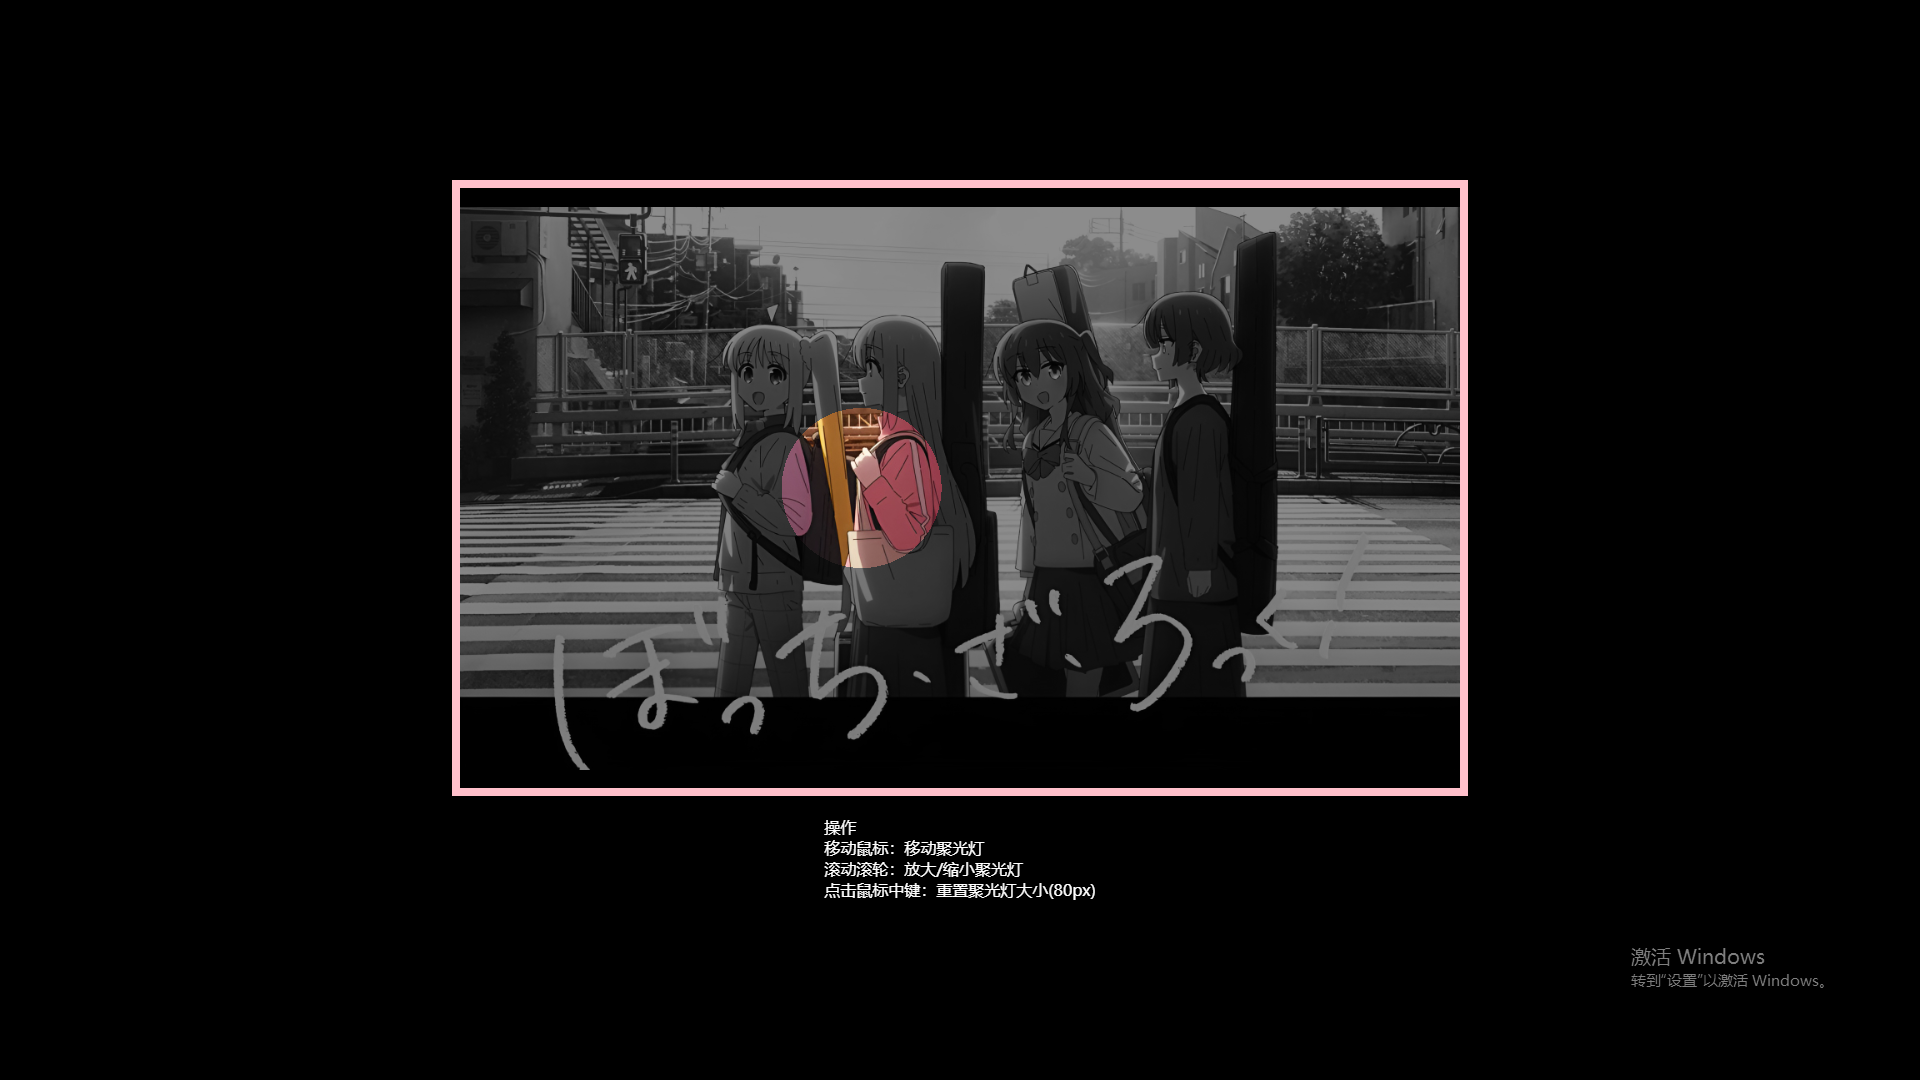
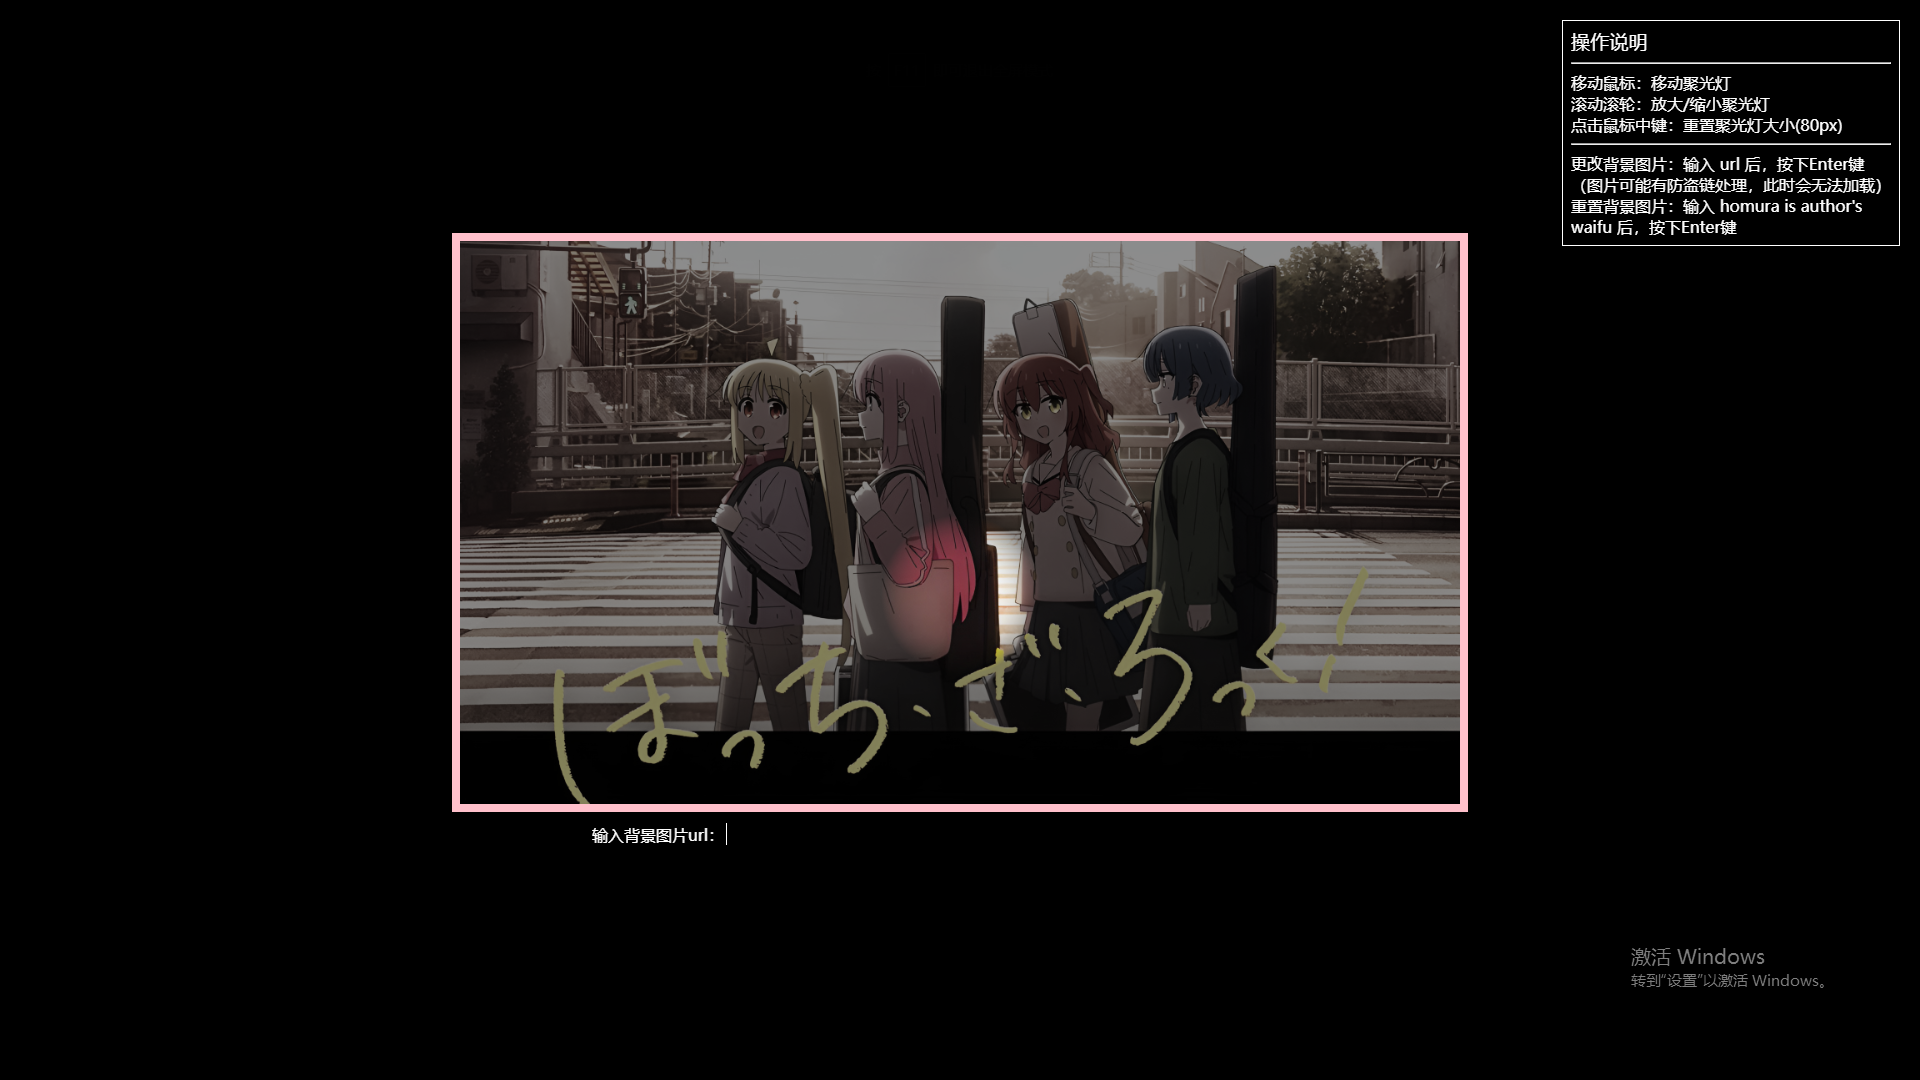
更新至0.7.3: 1.聚光灯增加自定义背景图片功能 2.修改聚光灯封面

Changed region(s): [[0.2188, 0.1528, 0.7812, 0.8556], [0.8125, 0.0306, 1.0, 0.2139]]

diff --git a/pages/spotlight.html b/pages/spotlight.html
@@ -16,18 +16,31 @@
           align-items: center;
       }
 
-      .description {
-          margin-top: 20px;
+      .manual {
+          position: fixed;
+          top: 20px;
+          right: 20px;
+
+          border: solid 1px;
+          padding: 8px;
+          width: 20em;
+      }
+
+      .manual > header {
+          font-size: 1.2em;
+      }
+
+      .manual .reset-cheats {
+
       }
 
       .scene {
-          --light-radius: 80px;
           --light-x: 50%;
           --light-y: 50%;
           border: solid 8px pink;
           width: 1000px;
-          height: 600px;
-          background: url("../images/material/wallhaven-85o6mj.jpg") center/contain no-repeat;
+          aspect-ratio: 16 / 9;
+          background: var(--bg-url) center/contain no-repeat;
       }
 
       .scene::after {
@@ -43,21 +56,44 @@
           -webkit-mask-size: 200% 200%;
           -webkit-mask-position: var(--mask-position-x) var(--mask-position-y);
       }
+
+      .bg-url-input {
+          margin-top: 10px;
+      }
+
+      .bg-url-input input {
+          border: none;
+          width: 30em;
+          outline: none;
+          background-color: transparent;
+          color: inherit;
+          font-size: 20px;
+      }
   </style>
 </head>
 <body>
 <div class="scene"></div>
-<div class="description">
-  <header>操作</header>
+<div class="bg-url-input">
+  <label>输入背景图片url：<input type="text" autofocus></label>
+</div>
+
+<div class="manual">
+  <header>操作说明</header>
+  <hr>
   <div>移动鼠标：移动聚光灯</div>
   <div>滚动滚轮：放大/缩小聚光灯</div>
   <div>点击鼠标中键：重置聚光灯大小(80px)</div>
+  <hr>
+  <div>更改背景图片：输入 url 后，按下Enter键（图片可能有防盗链处理，此时会无法加载）</div>
+  <div>重置背景图片：输入 <span class="reset-cheats">homura is author's waifu</span> 后，按下Enter键</div>
 </div>
 
 <script>
+  // light position
   const scene = document.getElementsByClassName('scene')[0]
   const sceneWidth = scene.offsetWidth
   const sceneHeight = scene.offsetHeight
+
   scene.addEventListener('mousemove', ({ offsetX, offsetY }) => {
     const xPercentage = offsetX / sceneWidth
     const yPercentage = offsetY / sceneHeight
@@ -65,9 +101,11 @@
     scene.style.setProperty('--light-y', yPercentage * 100 + '%')
   })
 
+  // light radius
   const initRadius = 80
   let radius = initRadius
   scene.style.setProperty('--light-radius', radius + 'px')
+
   scene.addEventListener('wheel', ({ deltaY }) => {
     deltaY < 0 ? radius += 2 : radius -= 2
     if (radius < 0) radius = 0
@@ -76,6 +114,19 @@
   scene.addEventListener('auxclick', (e) => {
     if (e.button === 1) {
       scene.style.setProperty('--light-radius', initRadius + 'px')
+    }
+  })
+
+  // url input
+  const resetCheats = 'homura is author\'s waifu'
+  const initUrl = '../images/material/wallhaven-85o6mj.jpg'
+  scene.style.setProperty('--bg-url', `url("${initUrl}")`)
+
+  const input = document.getElementsByTagName('input')[0]
+  input.addEventListener('keydown', ({ key }) => {
+    if (key === 'Enter') {
+      const url = input.value === resetCheats ? initUrl : input.value
+      scene.style.setProperty('--bg-url', `url("${url}")`)
     }
   })
 </script>
